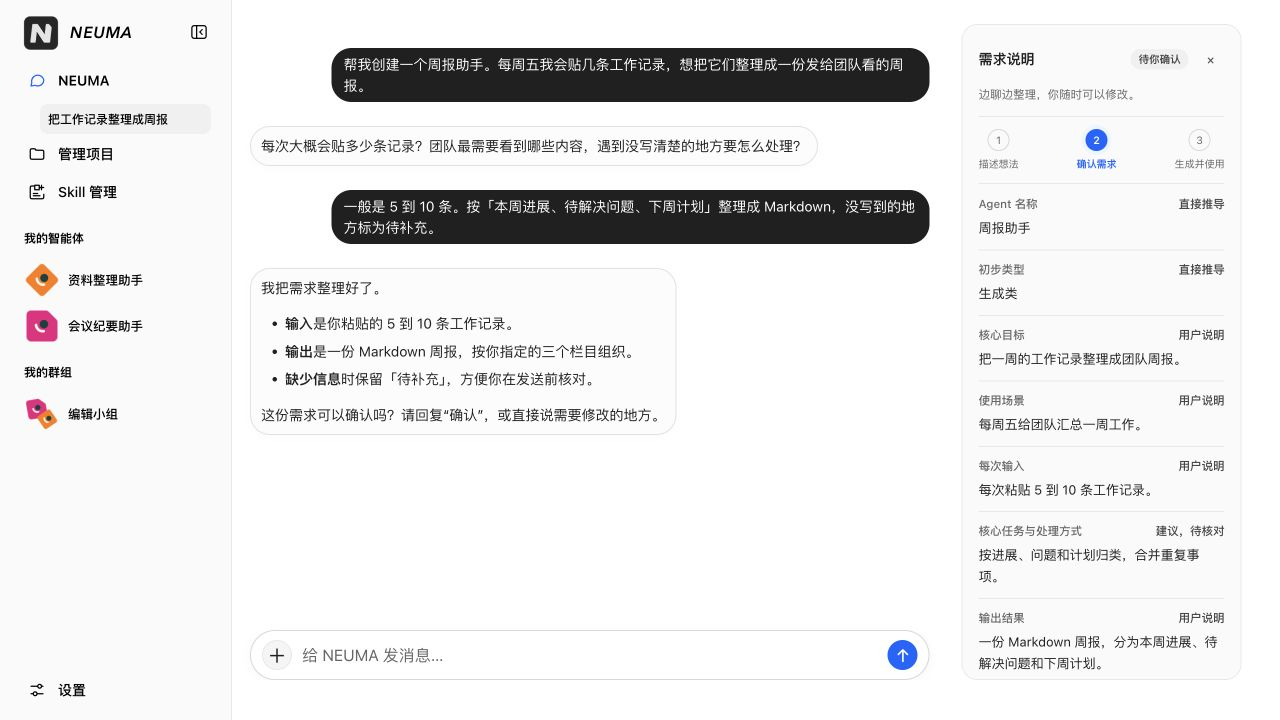
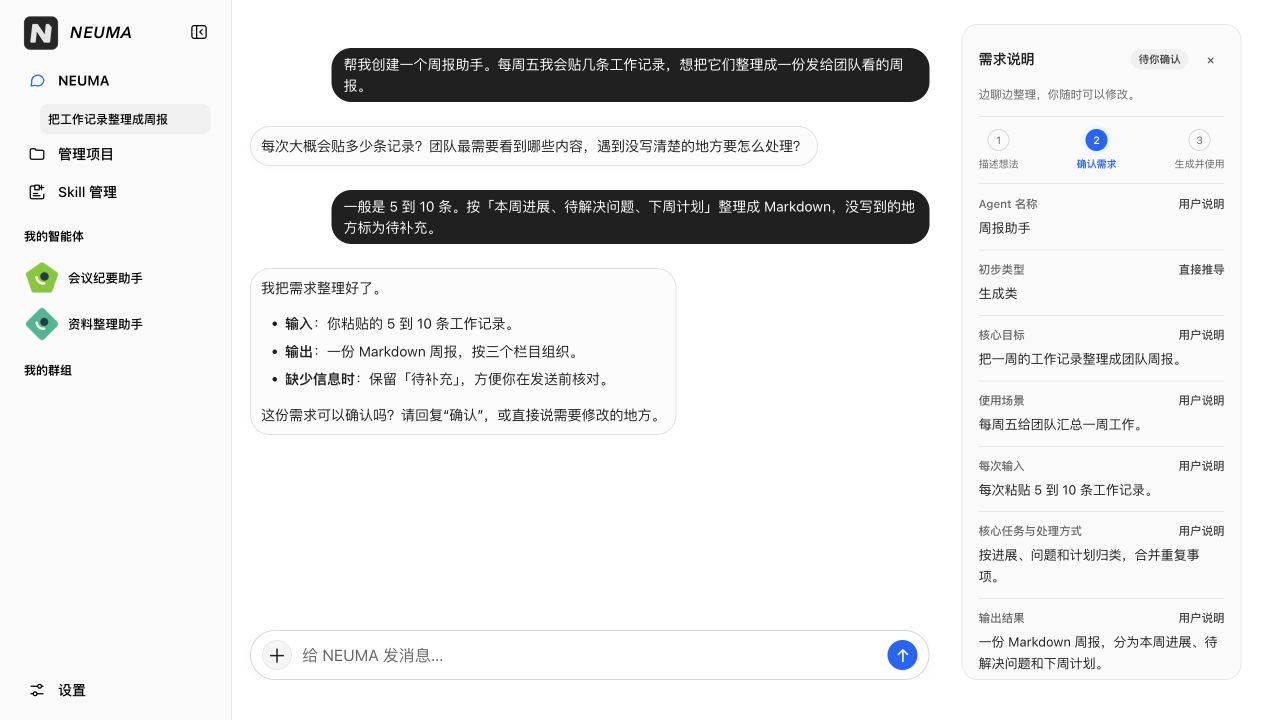
docs: refresh README screenshots

diff --git a/README.md b/README.md
@@ -28,9 +28,9 @@
 
 你可以在主对话里描述一项反复要做的工作，例如把每周的零散记录整理成周报。NEUMA 会和你一起确定输入和交付格式，再制作一个可以反复使用的助手。已有的助手可以组成群组，共享材料、分工并汇总结果。
 
-![NEUMA 主对话正在澄清周报需求，右侧的需求说明显示每次输入、核心任务和输出结果](docs/images/readme-workspace.jpg)
+![NEUMA 主对话与右侧需求说明，示例为待确认的周报助手](docs/images/readme-workspace.jpg)
 
-*周报助手的需求进入「待你确认」时，可以对照右侧草稿，在原对话里直接修改。本文两张截图均取自 `main` 分支运行的桌面界面，使用演示数据。*
+*周报需求在右侧整理，确认后即可开始制作。两张图取自源码版，使用演示数据（2026-11-15）。*
 
 ## 快速开始
 
@@ -86,9 +86,9 @@ neuma
 
 打开「管理项目」，点「＋ 添加项目」，选中项目文件夹或粘贴路径，再点「添加并自动配置」。模型识别启动方式后，项目就会出现在列表里。选择项目后点「打开项目」即可使用。要查正在运行的项目或端口占用，点右上角「运行与端口」。
 
-![NEUMA 项目管理页选中了周报看板，列表中可见三个项目，详情中可见启动方式和打开项目按钮](docs/images/readme-projects.jpg)
+![NEUMA 项目管理页，左侧列出示例项目，右侧展示周报看板的启动配置](docs/images/readme-projects.jpg)
 
-*示例中的「周报看板」是一个已配置、尚未启动的本地网页。项目文件留在原文件夹，启动时使用当前账户的权限和项目自身的运行环境。*
+*「周报看板」已配置启动方式，点击「打开项目」即可在本机预览。*
 
 ### 使用应用与外部连接
 
